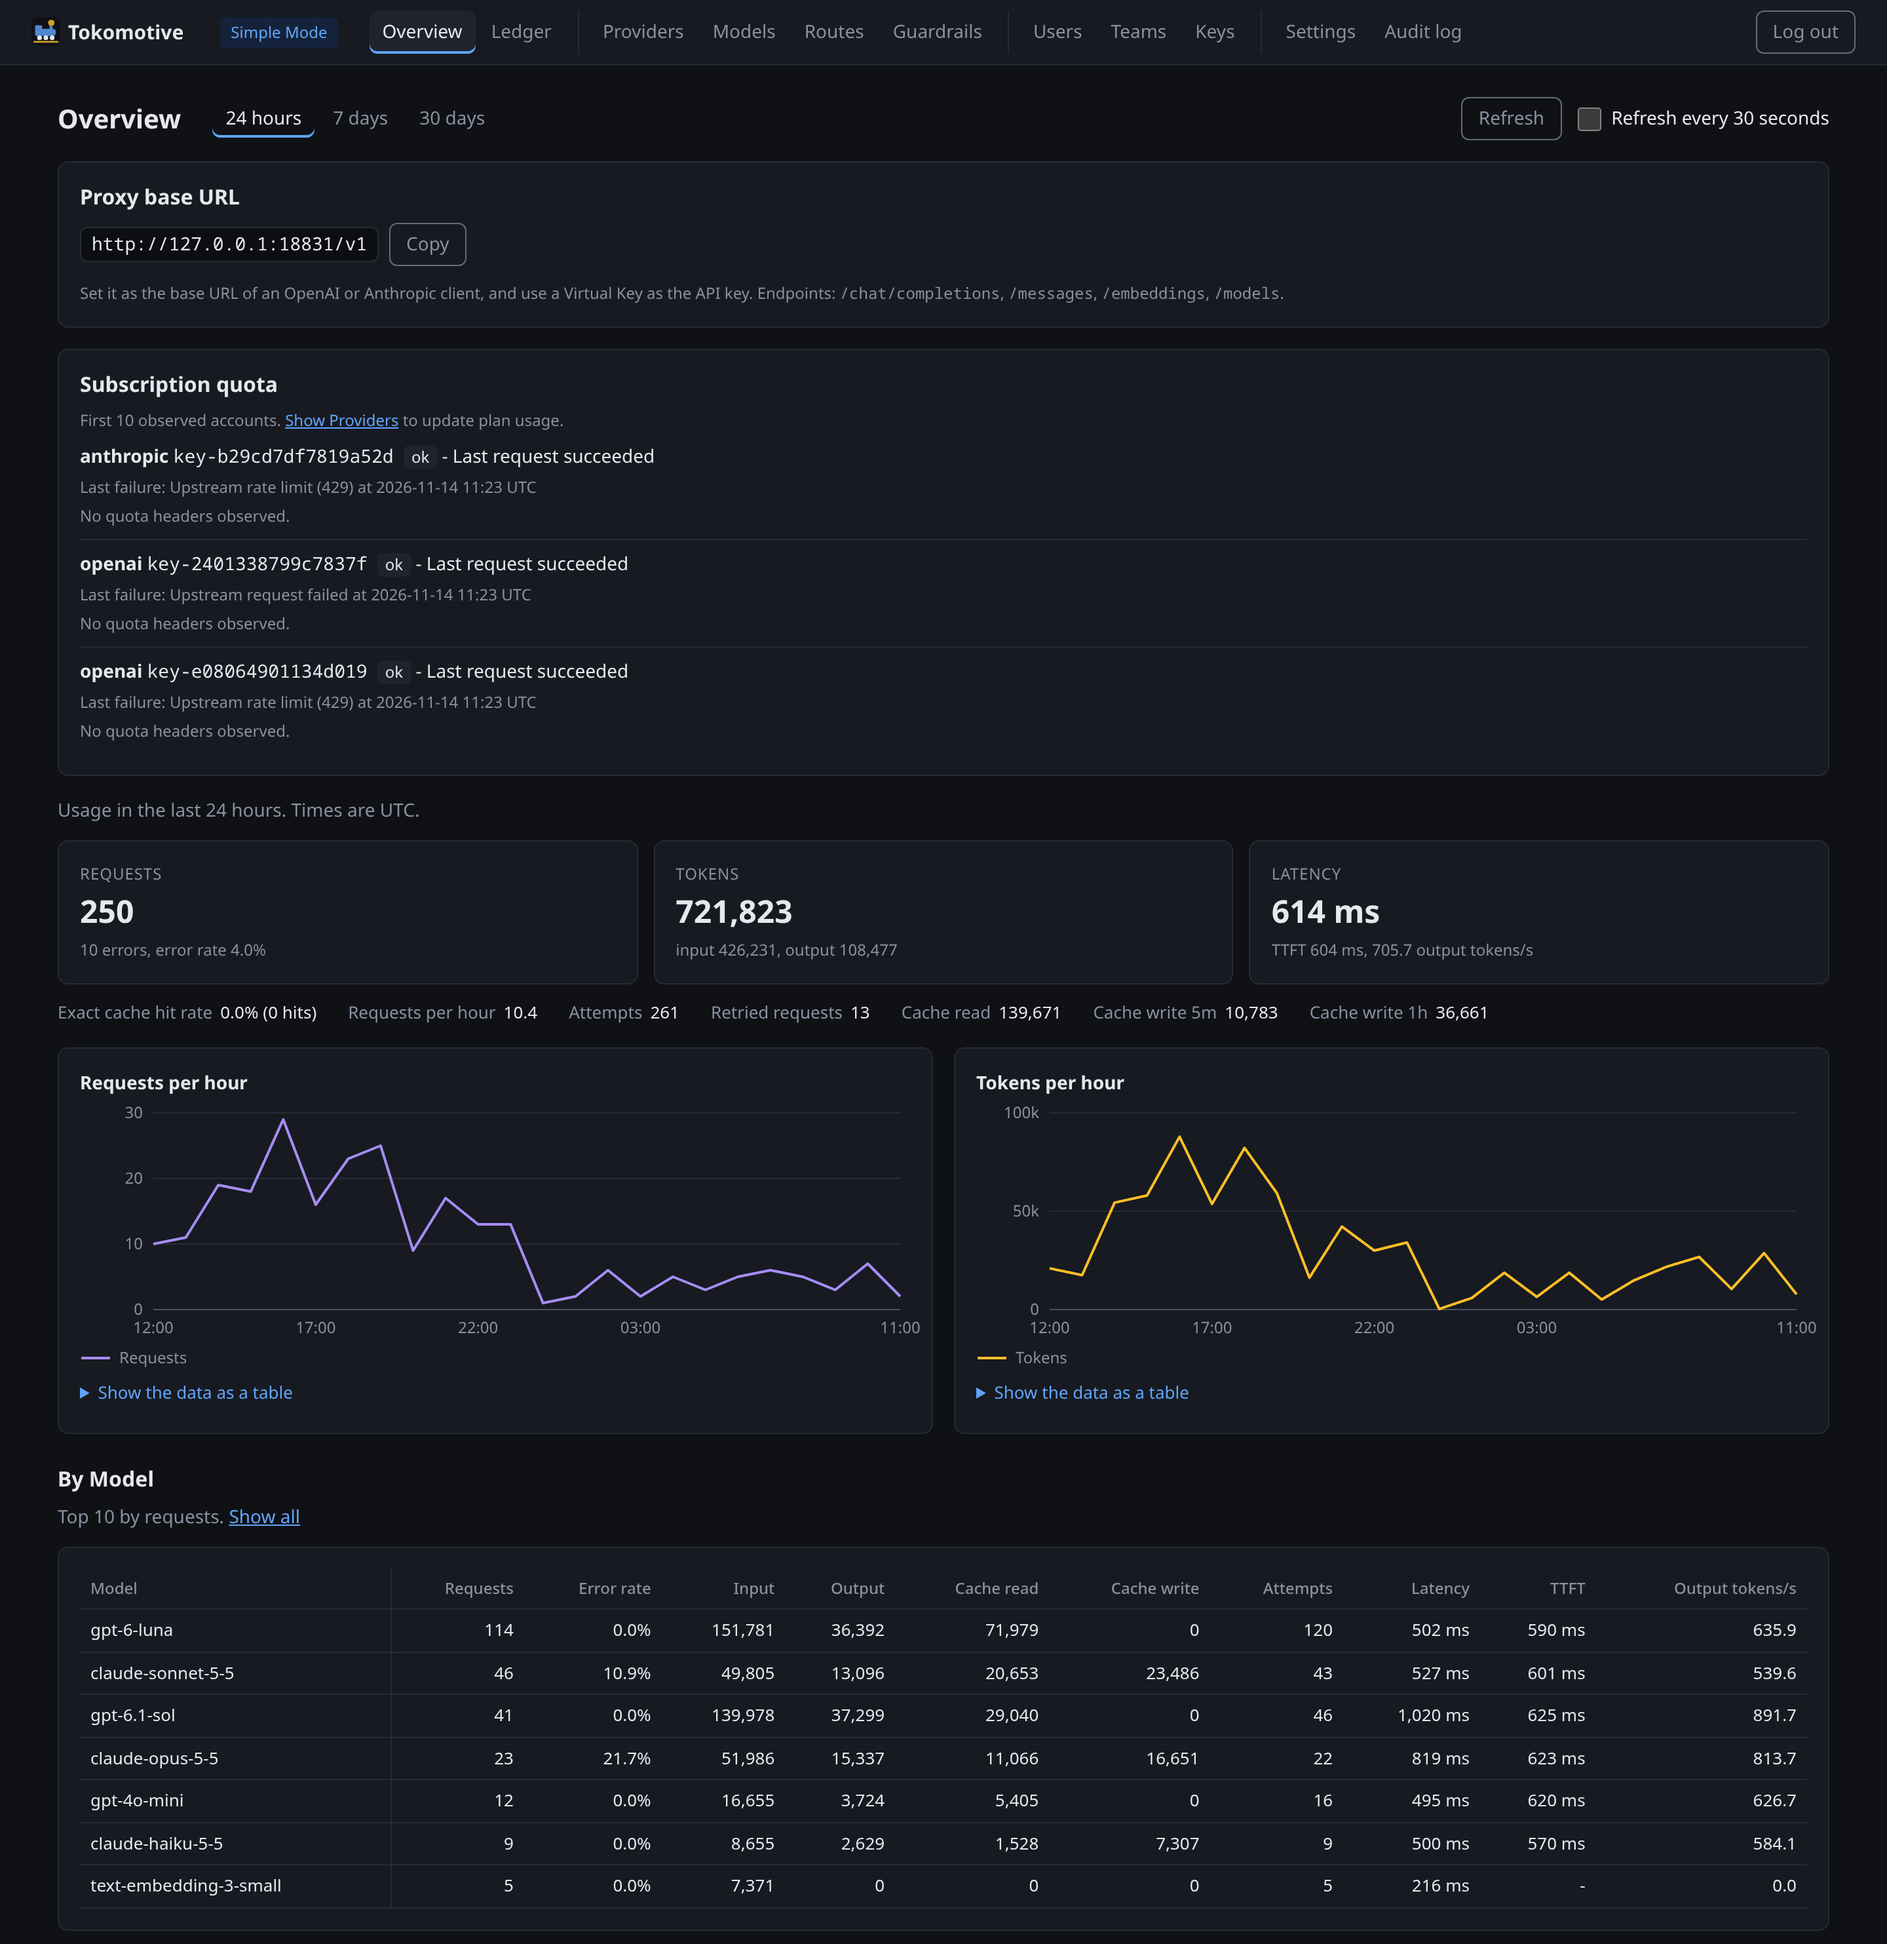
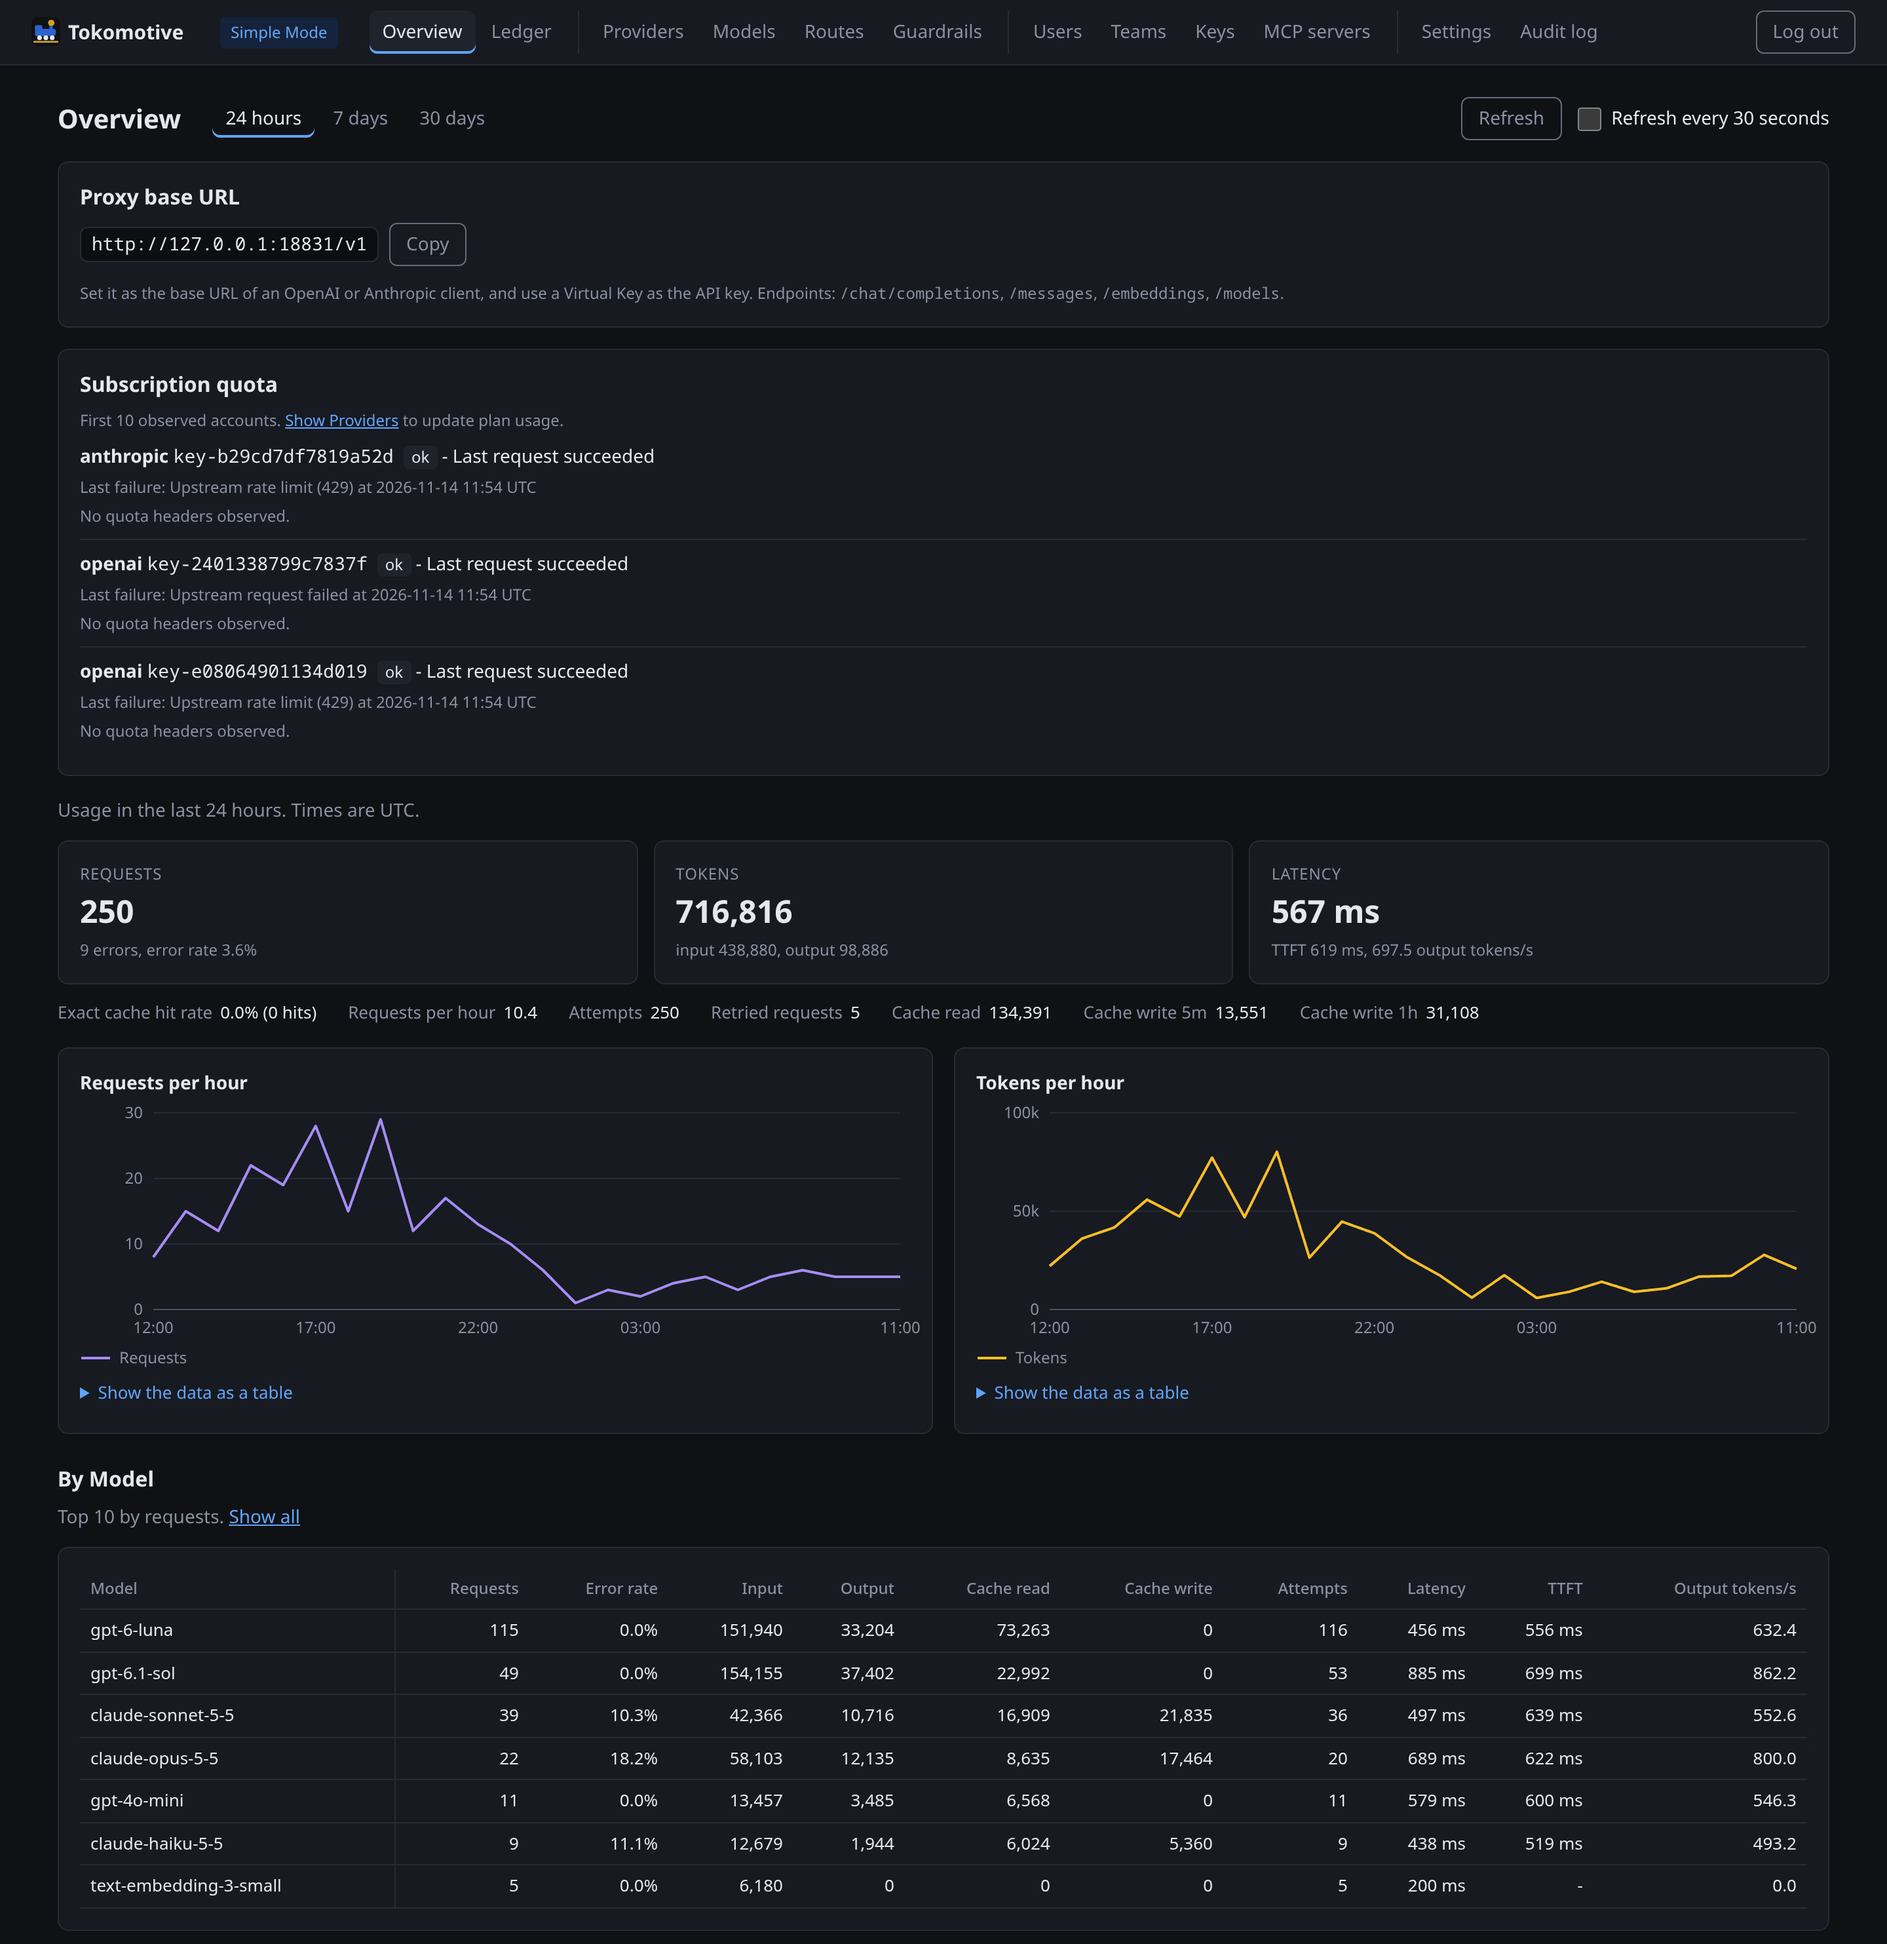
docs: regenerate README screenshots and add the MCP pages

diff --git a/scripts/screenshots/seed.py b/scripts/screenshots/seed.py
@@ -115,6 +115,10 @@ r = mcp.post(B + "/mcp", json={"jsonrpc": "2.0", "id": 1, "method": "initialize"
 r.raise_for_status()
 mcp.headers["Mcp-Session-Id"] = r.headers["Mcp-Session-Id"]
 mcp.post(B + "/mcp", json={"jsonrpc": "2.0", "method": "notifications/initialized"}, timeout=30).raise_for_status()
+# The gateway dispatches only names from a tools/list of this session.
+r = mcp.post(B + "/mcp", json={"jsonrpc": "2.0", "id": 100, "method": "tools/list", "params": {}}, timeout=30)
+r.raise_for_status()
+assert any(t["name"] == "research__search_docs" for t in r.json()["result"]["tools"]), r.text
 for i in range(16):
     r = mcp.post(B + "/mcp", json={"jsonrpc": "2.0", "id": i + 2, "method": "tools/call", "params": {"name": "research__search_docs", "arguments": {"query": "demo"}}}, timeout=30)
     r.raise_for_status()
